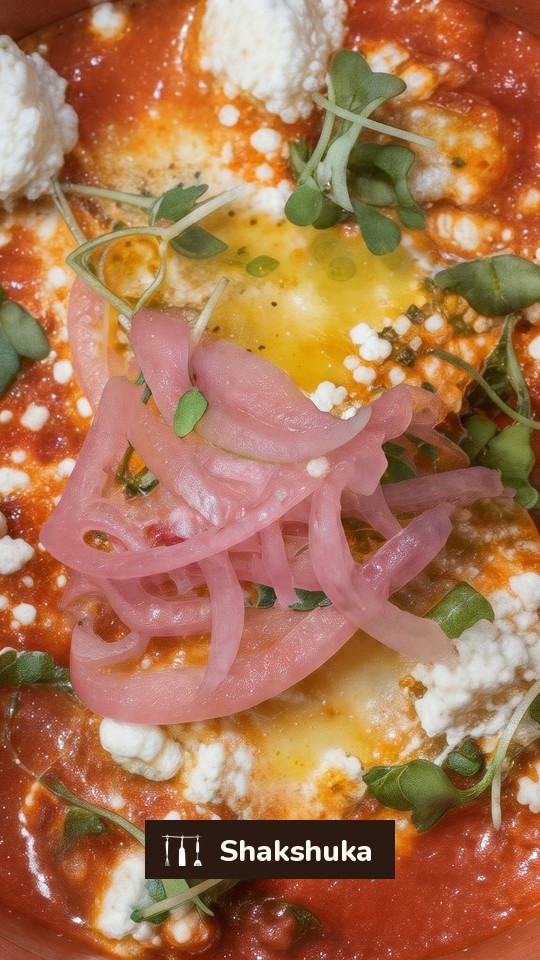
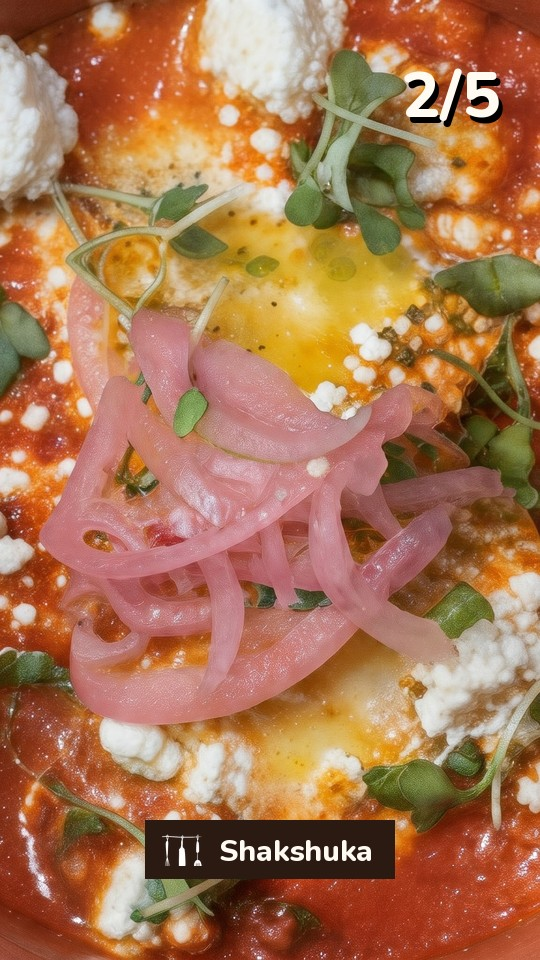
Bisou: storyboard v2 (no fork chase, 1/5 counter, eaten pancakes, plate becomes the O)
Claude-Session: https://claude.ai/code/session_014BpmJ1Hq1gbadeJyrTMiEQ

Changed region(s): [[0.7407, 0.0625, 0.9481, 0.1562]]

diff --git a/motion/bisou/storyboard/storyboard.html b/motion/bisou/storyboard/storyboard.html
@@ -16,24 +16,24 @@
   .mv { margin-top: 7px; font-size: 14px; color: #F5C95C; line-height: 1.4; } .sx { margin-top: 7px; font-size: 14px; color: #9DC7F5; line-height: 1.4; }
   .tr { margin-top: 7px; font-size: 14px; color: #7EDBA6; line-height: 1.4; }
 </style></head><body>
-<div class="board"><h1>Bisou <span>· new breakfast menu · 9:16 · about 42s</span></h1>
-  <div class="sub">One unbroken overhead take on their placemat. The star is a fork that keeps trying to steal a bite and the plates keep dodging it, until the pancakes, where it finally wins. Plates always travel upward, so the camera never reverses.
+<div class="board"><h1>Bisou <span>· new breakfast menu · 9:16 · about 42s · v2</span></h1>
+  <div class="sub">One unbroken overhead take on their placemat. Five new plates, counted 1/5 to 5/5, each landing on the beat and getting a slow push-in on its best detail. The pancakes get eaten, the lights go down, and the empty plate becomes the O of BISOU. Plates always travel upward, so the camera never reverses.
   Yellow = what moves. Blue = sound. Green = how this shot becomes the next.</div>
   <div class="grid" id="g"></div></div>
 <script>
 const S = [
- ['0.0–2.0s','Hook: the macro','Frame 1 is already food: glossy hollandaise and microgreens fill the screen.','Slow drift across the egg. The fork tip creeps in from the bottom edge.','Sizzle, a tiny metal tick.','The camera rises straight up off the egg.'],
- ['2.0–5.5s','Fried Chicken Eggs Benedict','The red plate lands centre on the placemat. Name slides up out of a mask.','Plate settles with a small wobble. Gentle push-in.','Ceramic clink on landing.','The fork lunges.'],
- ['5.5–6.5s','The dodge','The plate whips up and out of frame. The fork stabs empty placemat.','Fast whip with motion blur; the next plate rides in from below in the same move.','Whoosh, fork thunk on the mat.','The next plate is already in.'],
- ['6.5–11.5s','Shakshuka','Push deep into the bowl: yolk, feta, pickled onion.','Two-step zoom (full plate to bowl to macro). Steam drifts up.','Bubbling, soft clink.','Fork from the left, plate dodges again, faster.'],
- ['11.5–16.5s','Turkish Eggs & Bake','The bake lands. Herbs and chilli oil up close.','Fork lunges from the side and misses by a hair.','Swipe, miss.','Plate whips up.'],
- ['16.5–21.5s','Eggs & Chilli Oil','Push in on the chilli oil. The fork just waits.','"Patience." pops on the beat. The fork taps once, twice.','Two tiny taps.','Plate whips up.'],
- ['21.5–26.0s','Pancakes','Cream melting, sugar falling like snow.','Slowest push-in of the film. Sugar drifts down.','Soft chime.','The fork finally gets its turn.'],
- ['26.0–30.0s','Okay. One bite.','The fork wins. Stop-motion: full, half eaten, finished.','Three jumps on the beat, crumbs left behind, the fork drops onto the plate.','Bite, crunch, fork clatter.','The lights go down.'],
- ['30.0–32.0s','Lights down','The table dims around the empty plate.','Camera rises. The placemat fades to black.','Room tone drops away.','The white plate rim shrinks into the O of BISOU.'],
- ['32.0–34.5s','Plate becomes the logo','The rim lands as the O. The rest of the letters arrive.','The whisk, spatula and turner drop onto the rail and swing.','Three little hangs, ding.','Utensils swing to rest.'],
- ['34.5–37.5s','The mark','Their own mark, exactly as in their outro.','Utensils settle with a last small sway.','Quiet.','The mark slides up.'],
- ['37.5–42.0s','Which one first?','Same question as their post. All five plates in a row, @bisoutt.','Plates bob one after another. Held long enough to read and comment.','Last chime.','End.'],
+ ['0.0–2.0s','Hook: the macro','Frame 1 is already food: glossy hollandaise and microgreens fill the screen. "1/5" in the corner.','Slow drift across the egg.','Sizzle.','The camera rises straight up off the egg.'],
+ ['2.0–6.0s','Fried Chicken Eggs Benedict','The red plate lands centre on the placemat. Name slides up out of a mask.','Lands on the beat with a small settle, then a slow push-in.','Ceramic clink.','The plate whips up.'],
+ ['6.0–7.0s','The handover','The plate whips up and out; the next one rides in from below in the same move.','Fast whip with motion blur. Counter ticks to 2/5.','Whoosh, clink.','The next plate is already in.'],
+ ['7.0–12.0s','Shakshuka','Push deep into the bowl: yolk, feta, pickled onion.','Two-step zoom (plate, bowl, macro). Steam drifts up.','Soft bubbling.','Plate whips up, 3/5.'],
+ ['12.0–17.0s','Turkish Eggs & Bake','The bake lands. Herbs, yoghurt and chilli oil up close.','Push-in with a slow drift across the herbs.','Clink.','Plate whips up, 4/5.'],
+ ['17.0–22.0s','Eggs & Chilli Oil','Push in on the chilli oil and spring onion.','Push-in, a glint runs across the oil.','Clink.','Plate whips up, 5/5.'],
+ ['22.0–27.0s','Pancakes','Cream melting, sugar falling like snow.','The slowest push-in of the film. Sugar drifts down.','Soft chime.','The camera eases back to the whole plate.'],
+ ['27.0–31.0s','Gone','The pancakes get eaten: full, half eaten, finished, fork left on the plate.','Three stop-motion jumps on the beat, crumbs left behind.','Bite, bite, fork clatter.','The lights go down.'],
+ ['31.0–33.0s','Lights down','The table dims around the empty plate.','Camera rises. The placemat fades to black.','Room tone drops away.','The white plate rim shrinks into the O of BISOU.'],
+ ['33.0–35.5s','Plate becomes the logo','The rim lands as the O. The rest of the letters arrive.','The whisk, spatula and turner drop onto the rail and swing.','Three little hangs, ding.','Utensils swing to rest.'],
+ ['35.5–38.5s','The mark','Their own mark, exactly as in their outro. "New on the breakfast menu".','Utensils settle with a last small sway.','Quiet.','The mark slides up.'],
+ ['38.5–42.0s','Which one first?','Same question as their post. All five plates in a row, @bisoutt.','Plates bob one after another. Held long enough to read and comment.','Last chime.','End.'],
 ];
 document.getElementById('g').innerHTML = S.map(([t,b,d,mv,sx,tr],i)=>`<div><div class="frame"><div class="num">${i+1}</div><img src="frames/${i+1}.jpg"></div>
  <div class="t">${t}</div><div class="b">${b}</div><div class="d">${d}</div><div class="mv">${mv}</div><div class="sx">${sx}</div><div class="tr">→ ${tr}</div></div>`).join('');

diff --git a/motion/bisou/tools/storyboard_frames.py b/motion/bisou/tools/storyboard_frames.py
@@ -46,30 +46,34 @@ def caption(base, text, y, size=40):
     d = ImageDraw.Draw(base); f = F800(size); tw = d.textlength(text, font=f)
     d.text(((W - tw) / 2 + 2, y + 3), text, font=f, fill=(0, 0, 0, 120)); d.text(((W - tw) / 2, y), text, font=f, fill=(255, 250, 242))
 
+def counter(base, n):
+    d = ImageDraw.Draw(base); f = F800(64); t = f'{n}/5'
+    x = W - 40 - d.textlength(t, font=f); d.text((x + 4, 58), t, font=f, fill=(0, 0, 0, 110)); d.text((x, 52), t, font=f, fill=(255, 250, 242))
+
 def save(im, n): im.convert('RGB').save(OUT + f'{n}.jpg', quality=90)
 
 # 1 hook: macro of the benedict, the fork sneaking in
-b = cover(Image.open(HI + 'benedict_L2.png').convert('RGB')).convert('RGBA'); fork(b, 470, 860, 0, .75); save(b, 1)
+b = cover(Image.open(HI + 'benedict_L2.png').convert('RGB')).convert('RGBA'); counter(b, 1); save(b, 1)
 # 2 reveal the plate + name
-b = mat(); put(b, plate('benedict', 470), W / 2, 430); label(b, 'Fried Chicken Eggs Benedict', 760); save(b, 2)
+b = mat(); put(b, plate('benedict', 470), W / 2, 430); label(b, 'Fried Chicken Eggs Benedict', 760); counter(b, 1); save(b, 2)
 # 3 plate whips up, next plate arrives from below, fork stabs empty mat
 b = mat(); p = plate('benedict', 470).filter(ImageFilter.GaussianBlur(3)); put(b, p, W / 2, -150)
-put(b, plate('shakshuka', 470), W / 2, 820); fork(b, 300, 330, 10, .6); save(b, 3)
+put(b, plate('shakshuka', 470), W / 2, 820); counter(b, 2); save(b, 3)
 # 4 shakshuka close-up + name
-b = cover(Image.open(HI + 'shakshuka_L3.png').convert('RGB')).convert('RGBA'); label(b, 'Shakshuka', 820); save(b, 4)
+b = cover(Image.open(HI + 'shakshuka_L3.png').convert('RGB')).convert('RGBA'); label(b, 'Shakshuka', 820); counter(b, 2); save(b, 4)
 # 5 turkish eggs, fork lunges in from the left and misses
-b = mat(); put(b, plate('turkish', 470), W / 2 + 40, 430); fork(b, 60, 470, -35, .6); label(b, 'Turkish Eggs & Bake', 760); save(b, 5)
+b = mat(); put(b, plate('turkish', 470), W / 2, 430); label(b, 'Turkish Eggs & Bake', 760); counter(b, 3); save(b, 5)
 # 6 chilli eggs close-up, fork waiting politely
-b = cover(Image.open(HI + 'chilli_L2.png').convert('RGB'), cx=.6).convert('RGBA'); fork(b, 430, 900, 15, .7); caption(b, 'Patience.', 120, 54); label(b, 'Eggs & Chilli Oil', 820); save(b, 6)
+b = cover(Image.open(HI + 'chilli_L2.png').convert('RGB'), cx=.6).convert('RGBA'); label(b, 'Eggs & Chilli Oil', 820); counter(b, 4); save(b, 6)
 # 7 pancakes, sugar falling
 b = cover(Image.open(HI + 'pancake_L3.png').convert('RGB')).convert('RGBA'); d = ImageDraw.Draw(b)
 rng = np.random.default_rng(3)
 for _ in range(160):
     x, y, r = rng.uniform(0, W), rng.uniform(0, H * .7), rng.uniform(1, 3.2); d.ellipse([x, y, x + r, y + r], fill=(255, 255, 255, 200))
-label(b, 'Pancakes', 820); save(b, 7)
+label(b, 'Pancakes', 820); counter(b, 5); save(b, 7)
 # 8 finally: the fork wins (half eaten)
 b = mat(); put(b, Image.open(HI + 'pancake_eaten1_full.png').resize((640, 640), Image.LANCZOS), W / 2, 450)
-caption(b, 'Okay. One bite.', 120, 46); save(b, 8)
+save(b, 8)
 # 9 finished plate, room dims
 b = mat(dim=.55); im = Image.open(HI + 'pancake_eaten2_full.png').resize((640, 640), Image.LANCZOS); r, g, bb, a = im.split(); im = Image.merge('RGBA', [*ImageEnhance.Brightness(Image.merge('RGB', (r, g, bb))).enhance(.7).split(), a]); put(b, im, W / 2, 450); save(b, 9)
 # 10 black: the plate rim becomes the O, utensils dropping onto the rail
